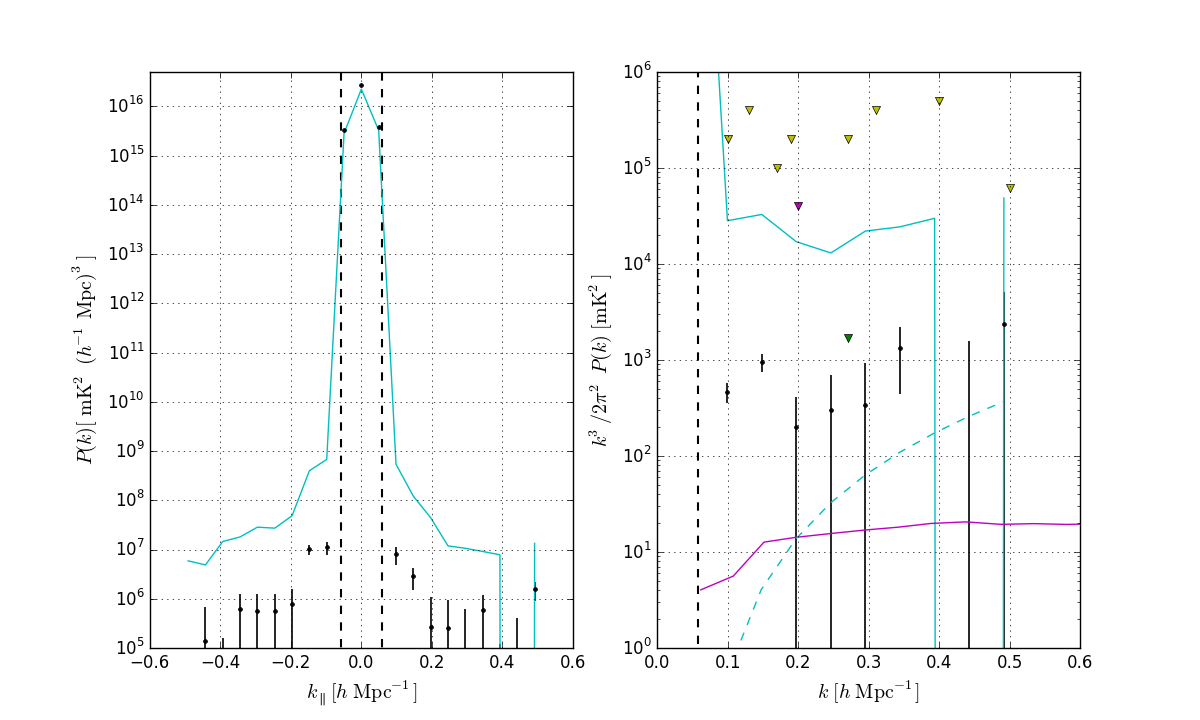
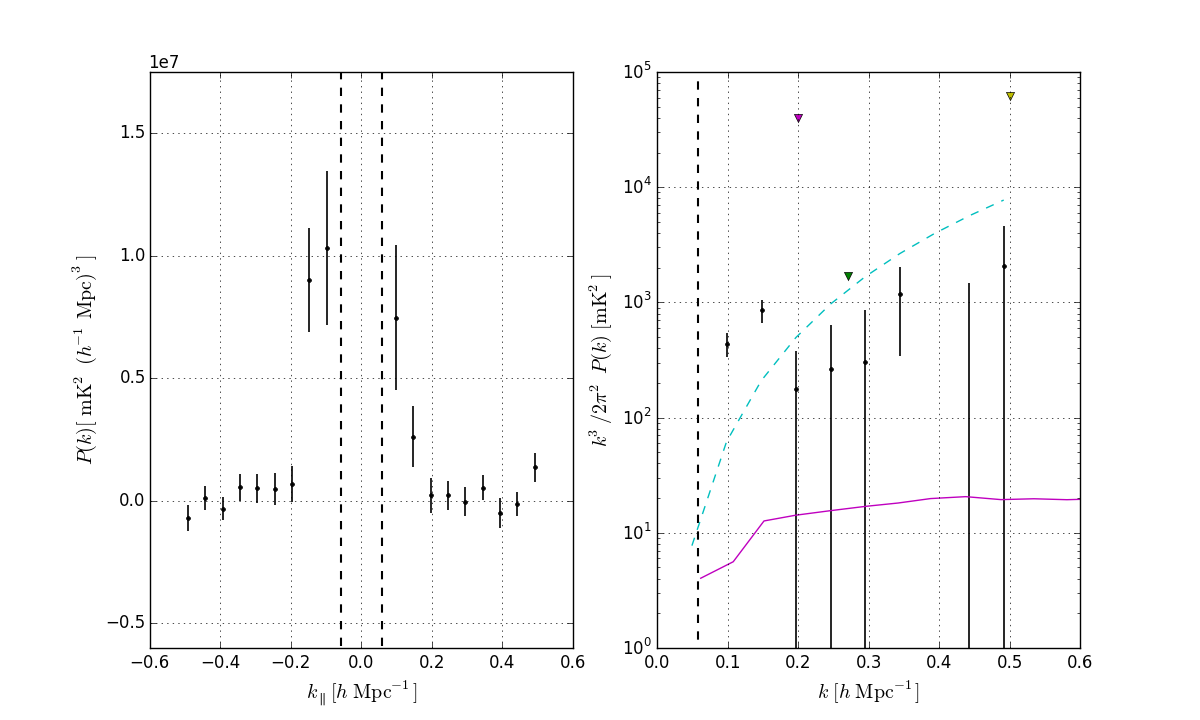
add in figures and update text
add pspec, posterior (including points > .15), flow cahrt and
update pspec plot script

diff --git a/plots/pspec_plot_pk_k3pk.py b/plots/pspec_plot_pk_k3pk.py
@@ -30,19 +30,20 @@ def noise_level():
     tsys = 500e3 #mK
     inttime = 1886. #seconds
     nbls=51
-    #ndays = 120 #effectively this many days. days of operation = 135
-    ndays = 60 #effectively this many days. days of operation = 135
-    nmodes = (8.5*60*60/inttime)**.5
+    ndays = 120 #effectively this many days. days of operation = 135
+    #ndays = 60 #effectively this many days. days of operation = 135
+    nmodes = (3*8.5*60*60/inttime)**.5 # 3 for baseline types, 8.5=total lst time used.
     pol = 2
     real = 2 #??? what is this again?
     freq = .15117 #GHz
     z = C.pspec.f2z(freq)
     X2Y = C.pspec.X2Y(z)/1e9 #h^-3 Mpc^3 / str/ Hz
+    print X2Y
     sdf = .1/203
     freqs = n.linspace(.1,.2,203)[95:115]
     B = sdf*freqs.size
     bm = n.polyval(C.pspec.DEFAULT_BEAM_POLY, freq) * 2.35 # correction for beam^2
-    scalar = X2Y * bm * B
+    scalar = X2Y * bm 
 
     fr_correct = 1.9
 
@@ -52,17 +53,19 @@ def noise_level():
     print 'tsys', tsys
     print 
 
-    #error bars minimum width. Consider them flat for P(k)
-    pk = scalar*bm*fr_correct*( (tsys)**2 / (inttime*pol*real*nbls*ndays*nmodes) )
+    #error bars minimum width. Consider them flat for P(k). Factor of 2 at the end is due to folding of kpl (root(2)) and root(2) in radiometer equation.
+    pk = scalar*fr_correct*( (tsys)**2 / (inttime*pol*real*nbls*ndays*nmodes) )/2
 
+    print 'pk = ', pk
     #
-    etas = n.fft.fftshift(C.pspec.f2eta(freqs))
-    kpl = etas * C.pspec.dk_deta(z)
-    kpl_pos = kpl[kpl>=0]
-    print kpl_pos
+#    etas = n.fft.fftshift(C.pspec.f2eta(freqs))
+#    kpl = etas * C.pspec.dk_deta(z)
+#    kpl_pos = kpl[kpl>=0]
+    ks = n.linspace(.05837,.6,100)
 
-    d2 = pk*kpl_pos**3 / (2*n.pi**2)
-    return d2
+    d2 = pk*ks**3 / (2*n.pi**2)
+    #return ks, d2
+    return pk
 
 
 
@@ -232,8 +235,8 @@ if True:
         RS_VS_KPL_FOLD['total'][_kpl] = (dsum_fold[_kpl] / dwgt_fold[_kpl], 1./n.sqrt(dwgt_fold[_kpl]))
 
 fig=p.figure(figsize=(12,7.2))
-#if False: # put in raw delay spec
-if True: # put in raw delay spec
+if False: # put in raw delay spec
+#if True: # put in raw delay spec
     f = n.load(dspec)
     kpl,pk,err = f['kpl'], f['pk'], f['err']
     print kpl
@@ -334,26 +337,51 @@ for sep in RS_VS_KPL:
     if True: # For aggressive fringe-rate filtering, change beam area
         f = opts.afrf_factor
         f = 1.90 # ratio of power**2 beams for filtered * unfiltered beams: 0.306 / 0.162
-        print 'Scaling data and noise by %f for beam constriction in aggressive fringe-rate filtering' % f
+        print 'Scaling data and noise by %f for beam constriction in aggressive fringe-rate filtering.' % f
         d *= f
         nos *= f
         d_fold *= f
         nos_fold *= f
     if True: # extra penalty for signal loss in covariance diagonalization
         #f = 1.2
-        f = 1.15 # this is the conservative number, for the biggest modes outside the of the wedge. Get ~1.03 correction at k=.2
-        print 'Scaling data and noise by %f for signal loss in covariance diagonalization' % f
+#        f = 1.15 # this is the conservative number, for the biggest modes outside the of the wedge. Get ~1.03 correction at k=.2
+        f = 1.02 # this is the conservative number, for the biggest modes outside the of the wedge. Get ~1.03 correction at k=.2
+        print 'Scaling data and noise by %f for signal loss from empirically estimating covariances.' % f
         d *= f
         nos *= f
         d_fold *= f
         nos_fold *= f
     if True:
         f = 1/n.log(2)
-        print 'Scaling data and noise by %f for using the median statistic'%f
+        print 'Scaling data and noise by %f for using the median statistic.'%f
         d *= f
         nos *= f
         d_fold *= f
         nos_fold *= f
+    if True:
+        f1 = 1.048
+        f2 = 1.013
+        f  = 1.0015
+        print 'Scaling data and noise by %f(first mode outside horizon), %f(second mode outside horizon), and %f(all modes greater)  for using delay filter.'%(f1,f2,f)
+        k0 = n.argmin(n.abs(kpl))
+        d[k0+2] *= f1; d[k0-2] *= f1
+        d[k0+3] *= f2; d[k0-3] *= f2
+        d[k0+4:] *= f; d[:k0-3] *= f
+        nos[k0+2] *= f1; nos[k0-2] *= f1
+        nos[k0+3] *= f2; nos[k0-3] *= f2
+        nos[k0+4:] *= f; nos[:k0-3] *= f
+
+        d_fold[2] *= f1; nos_fold *= f1
+        d_fold[3] *= f2; nos_fold *= f2
+        d_fold[4:] *= f; nos_fold *= f
+    if True:
+        f=1 + 2e-9 
+        print 'Scaling data and noise by %f for signal loss from flux scale calibration.'%f
+        d *= f
+        nos *= f
+        d_fold *= f
+        nos_fold *= f
+
     #for _kpl,_pk,_nos in zip(kpl,d,nos): print _kpl, _pk, _nos
     print sep, colors[0]
     '''
@@ -364,6 +392,7 @@ for sep in RS_VS_KPL:
     '''
     if d_fold.size == 0: d_fold,nos_fold = None, None
     #dual_plot(kpl, d, 2*nos, d_fold, 2*nos_fold, color=colors[0], bins=BINS)#,f0=freq) # 2-sigma error bars
+    print kpl
     dual_plot(kpl, d, 2*nos, d_fold, 2*nos_fold, color=colors[0], bins=BINS,f0=.151) # 2-sigma error bars
     #dual_plot(kpl, d, nos, color=colors[0], bins=BINS) # 2-sigma error bars
     colors = colors[1:] + colors[0]
@@ -387,26 +416,27 @@ for filename in glob.glob('lidz_mcquinn_k3pk/*7.3*dat'):
 tau_h = 100 + 15. #in ns
 k_h = C.pspec.dk_deta(C.pspec.f2z(.151)) * tau_h
 p.subplot(121)
-p.vlines(k_h, -1e7, 1e20, linestyles='--', linewidth=1.5)
-p.vlines(-k_h, -1e7, 1e20, linestyles='--', linewidth=1.5)
-p.gca().set_yscale('log', nonposy='clip')
+p.vlines(k_h, -1e7, 1e8, linestyles='--', linewidth=1.5)
+p.vlines(-k_h, -1e7, 1e8, linestyles='--', linewidth=1.5)
+#p.gca().set_yscale('log', nonposy='clip')
 p.xlabel(r'$k_\parallel\ [h\ {\rm Mpc}^{-1}]$', fontsize='large')
 p.ylabel(r'$P(k)[\ {\rm mK}^2\ (h^{-1}\ {\rm Mpc})^3]$',fontsize='large')
-#p.ylim(-1e7,1e8)
-p.ylim(1e5,5e16)
+p.ylim(-.6e7,1.75e7)
+#p.ylim(1e5,5e16)
 p.grid()
 
 
 p.subplot(122)
 #if ONLY_POS_K: p.plot([.5], [248**2], 'mv', label='GMRT2013')
 #else: p.plot([-.5, .5], [248**2, 248**2], 'mv', label='GMRT2013')
-p.vlines(k_h, -1e7, 1e10, linestyles='--', linewidth=1.5)
+p.vlines(k_h, -1e7, 1e7, linestyles='--', linewidth=1.5)
 #theoretical_ks = n.linspace(.058,.5, 100)
 #theor_errs = 1441090 * n.array(theoretical_ks)**3  / (2*n.pi**2)
 #p.plot(theoretical_ks, theor_errs, 'c--')
 
 #GMRT RESULTS
-p.plot([.1,.13,.17,.19,.27,.31,.4,.5,.6][:-1], [2e5,4e5,1e5,2e5,2e5,4e5,5e5,248**2,3e5][:-1], 'yv', label='GMRT2013')
+#p.plot([.1,.13,.17,.19,.27,.31,.4,.5,.6][:-1], [2e5,4e5,1e5,2e5,2e5,4e5,5e5,248**2,3e5][:-1], 'yv', label='GMRT2013')
+p.plot([.5], 248**2, 'yv', label='GMRT2013')
 #Dillon upper limit 9.82e7 mK^2 at k=0.2
 p.plot([.2], 9.82e7 * .2**3/(2*n.pi**2), 'mv', label='Dillon2013')
 #Parsons2014 upper lmit 41mk at .27
@@ -414,12 +444,13 @@ p.plot([.27], 41**2, 'gv', label='Parsons2014')
 
 theo_noise = noise_level()
 #print k0
-print kpl_pos[0], theo_noise[0]
-p.plot(kpl_pos, theo_noise, 'c--')
+#print kpl_pos[0], theo_noise[0]
+#2 for the 2 sigma
+p.plot(n.array(kpl_pos), 2*n.array(kpl_pos)**3*theo_noise/(2*n.pi**2), 'c--')
 p.gca().set_yscale('log', nonposy='clip')
 p.xlabel(r'$k\ [h\ {\rm Mpc}^{-1}]$', fontsize='large')
 p.ylabel(r'$k^3/2\pi^2\ P(k)\ [{\rm mK}^2]$', fontsize='large')
-p.ylim(1e0,1e6)
+p.ylim(1e0,1e5)
 p.xlim(0, 0.6)
 p.grid()
 p.savefig('pspec.png')
@@ -459,8 +490,11 @@ def posterior(kpl, pk, err, pkfold=None, errfold=None):
     kpl = kpl[ind]
     pk= kpl**3 * pkfold[ind]/(2*n.pi**2)
     err = kpl**3 * errfold[ind]/(2*n.pi**2)
-    s = n.logspace(1,3.5,100)
+    #s = n.logspace(1,3.5,100)
+    s = n.linspace(-5000,5000,10000)
+#    print s
     data = []
+    print 'real pk used in posterior:\n\t', pk.real
     for ss in s:
         data.append(n.exp(-.5*n.sum((pk.real - ss)**2 / err**2)))
     #    print data[-1]
@@ -469,31 +503,44 @@ def posterior(kpl, pk, err, pkfold=None, errfold=None):
     #print s
     #data/=n.sum(data)
     data /= n.max(data)
-    p.figure(5)
-    p.plot(s, data)
+    p.figure(5, figsize=(6.5,5.5))
+    p.plot(s, data, 'k', linewidth=2)
     #use a spline interpolator to get the 1 and 2 sigma limits.
     #spline = interp.interp1d(data,s)
     #print spline
     #print max(data), min(data)
     #print spline(.68), spline(.95)
     #p.plot(spline(n.linspace(.0,1,100)),'o')
-    p.plot(s, n.exp(-.5)*n.ones_like(s))
-    p.plot(s, n.exp(-.5*2**2)*n.ones_like(s))
-#    p.plot(s, ndata)
-    std = n.std(data)
-    mean = n.mean(data) 
-    sig1 = mean+std
-    sig2 = mean+(2*std)
-    print sig1, sig2
-    print n.where(data-sig1 < .01)
-    print mean, std
+#    p.plot(s, n.exp(-.5)*n.ones_like(s))
+#    p.plot(s, n.exp(-.5*2**2)*n.ones_like(s))
+    sig1 = []
+    sig2 = []
+    maxarg = n.argmax(data)
+    s1 = data[maxarg:] - n.exp(-.5)
+    sig1.append(n.floor(n.median(n.where(n.abs(s1)<.01)))+maxarg)
+    s1 = data[:maxarg] - n.exp(-.5)
+    sig1.append(n.floor(n.median(n.where(n.abs(s1)<.01))))
+
+    s2 = data[maxarg:] - n.exp(-.5*2**2)
+    sig2.append(n.floor(n.median(n.where(n.abs(s2)<.01)))+maxarg)
+    s2 = data[:maxarg] - n.exp(-.5*2**2)
+    sig2.append(n.floor(n.median(n.where(n.abs(s2)<.01))))
+    
+    #p.vlines(s[sig1[-1]],0,1,color=(0,107/255.,164/255.), linewidth=2)
+    p.vlines(s[sig1[0]],0,1,color=(0,107/255.,164/255.), linewidth=2)
+
+    #p.vlines(s[sig2[-1]],0,1,color=(0,107/255.,164/255.), linewidth=2)
+    p.vlines(s[sig2[0]],0,1,color=(1,128/255.,14/255.), linewidth=2)
+    print 'where', sig1
+    print 'where', sig2
     p.xlabel(r'$k^3/2\pi^2\ P(k)\ [{\rm mK}^2]$', fontsize='large')
-    p.ylabel('Posterior Probability Density', fontsize='large')
-    p.xlim(0,600)
+    p.ylabel('Posterior Distribution', fontsize='large')
+    p.xlim(0,550)
+    p.grid(1)
     p.show()
 
 #posterior(f['kpl'], f['pk'], f['err'], f['pk_fold'], f['err_fold'])
-posterior(kpl, d, nos, d_fold, nos_fold)
+posterior(kpl, d, 2*nos, d_fold, nos_fold)
 
 
 

diff --git a/psa64_pspec_ver2.tex b/psa64_pspec_ver2.tex
@@ -544,7 +544,7 @@ worth of calibrations. From \cite{zheng_et_al2014}, the $\chi^{2}/\text{DoF}$,
 where $\text{DoF} = 2N_{baselines} - 2(N_{antennas} + N_{\text{unique
 basleines}} $ is the number of degrees of freedom. For a good fit, the
 $\chi^{2}/DoF$ is drawn from a mean 1 distribution with variance
-$\frac{2}{\text{DoF}}$. The distribtuion of the $\xi^{2}$ in figure
+$\frac{2}{\text{DoF}}$. The distribtuion of the $\chi^{2}$ in figure
 \ref{fig:chi2} has a mean of 2, meaning that the fit was not the best to what
 our noise model is.  The noise model used was obtained from the variance
 statistic calculated during the binning of days in local sidereal time, which
@@ -656,15 +656,14 @@ the calibrated Pictor A spectrum and the model spectrum from
 \centering
 \includegraphics[width=\columnwidth]{plots/picimg_cs.png}
 \caption{
-[XXX need image coordinates, add circles for catalog positions of For, Pic]
 PAPER-64 image of a field including Pictor A and Fornax A, with black circles
-indicating catalog positions \citep{XXX}. Two hours of data used while Pictor A
-in transit.
-[XXX report bandwidth].
-Image quality is limited by the redundant configuration of the array (e.g. grating lobes
-as a result of periodic antenna spacing, elongated lobes
-arising from poor uv-coverage in the north-south direction).  Nonetheless, this image
-demonstrates accurate phase calibration over a wide field of view.
+indicating catalog positions \citep{XXX}. Image was synthesized with two hours
+of visibilities while Pictor A was in transit and 53 MHz of instantaneous
+bandwidth from 120 to 173 MHz.  Image quality is limited by the redundant
+configuration of the array (e.g. grating lobes as a result of periodic antenna
+spacing, elongated lobes arising from poor uv-coverage in the north-south
+direction).  Nonetheless, this image demonstrates accurate phase calibration
+over a wide field of view.
 } \label{fig:field_image}
 \end{figure}
 
